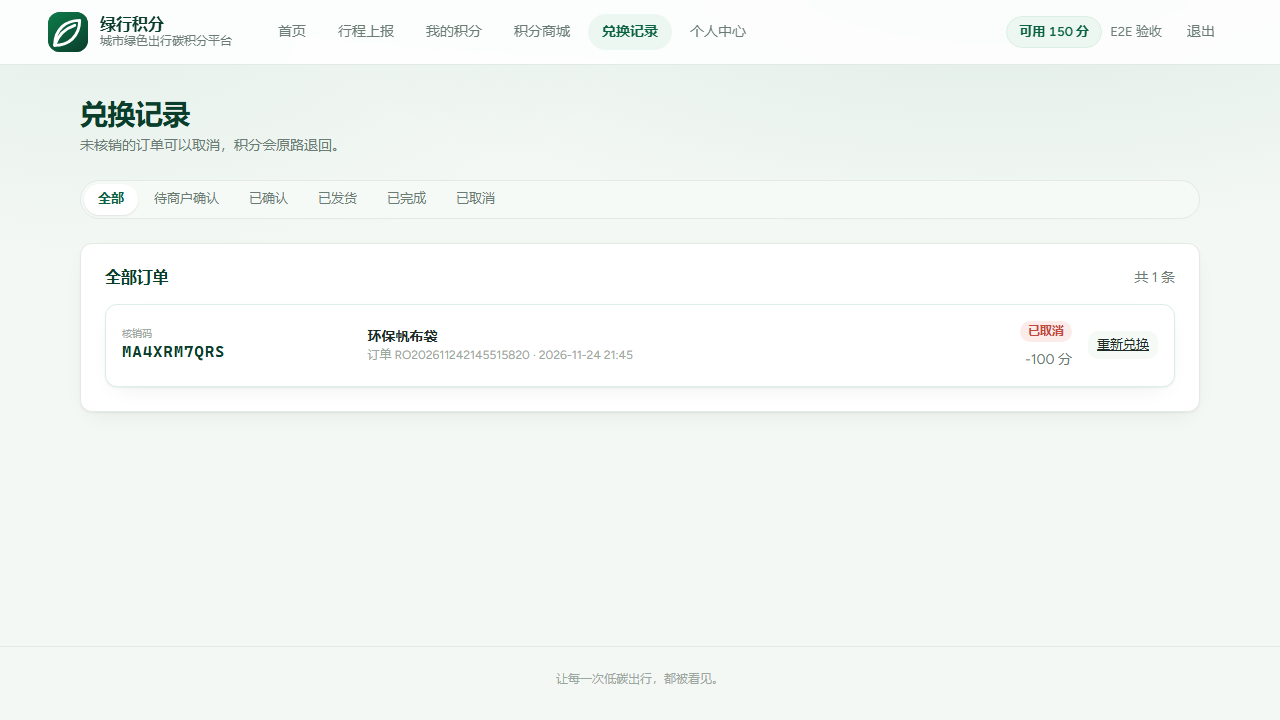
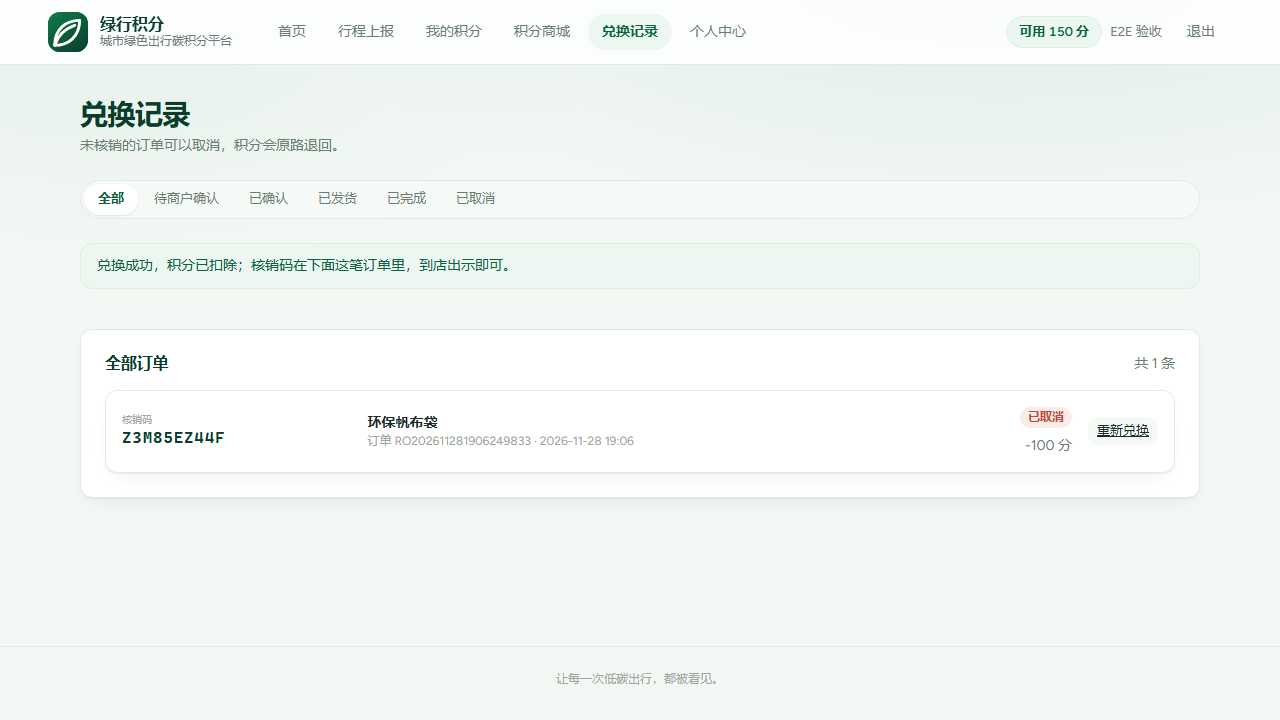
docs(web): 重跑 E2E 截图，兑换成功提示与分页后的界面同步

diff --git a/docs/screenshots/README.md b/docs/screenshots/README.md
@@ -19,7 +19,7 @@ npm run test:e2e
 | `05-points.png` | 积分页 | 当前余额 150 分、近 7 日趋势、积分流水两条 |
 | `06-mall.png` | 商城列表 | 在售商品列表与「我的余额」 |
 | `07-product-detail.png` | 商品详情 | 库存、每人限购、收货人输入、确认兑换可点 |
-| `08-orders-created.png` | 兑换后落到兑换记录 | 新订单状态「待商户确认」、可取消并返还 |
+| `08-orders-created.png` | 兑换后落到兑换记录 | 顶部「兑换成功」提示、新订单高亮且状态「待商户确认」、可取消并返还 |
 | `09-orders-cancelled.png` | 取消订单 | 状态变为「已取消」，积分返还 |
 | `10-points-after-cancel.png` | 取消后回积分页 | 余额回到 150 分 |
 | `11-login-error.png` | 错误密码登录 | 后端错误文案展示，不跳转首页 |
